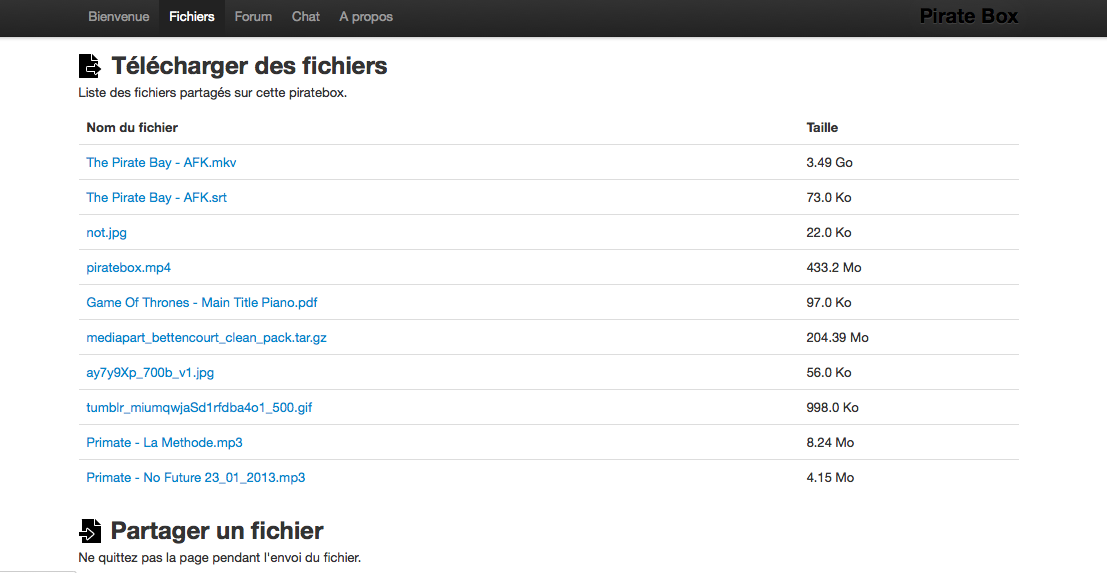
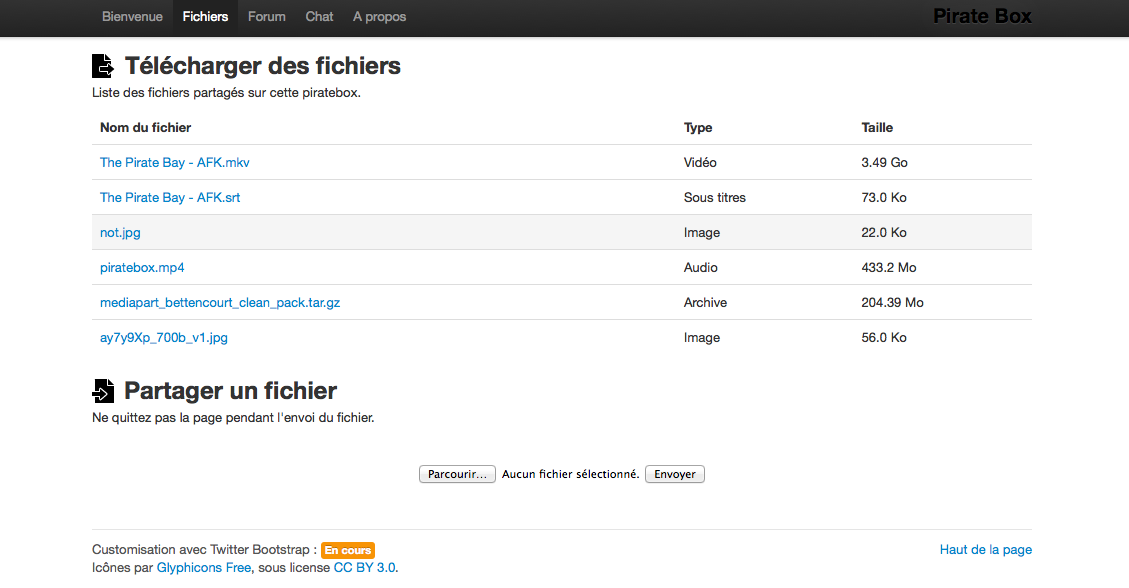
Small dir-generator enhancements

diff --git a/opt/piratebox/www/Shared/dir-generator.py b/opt/piratebox/www/Shared/dir-generator.py
@@ -5,7 +5,8 @@
 import os
 import os.path
 
-movie_types = [ 'mkv', 'mpg','mpeg','avi','asf','mp3','wav','mp4','wma','aif','aiff','ram', 'midi','mid','asf','au','flac' ]
+movie_types = [ 'mkv', 'mpg','mpeg','avi','wmv' ]
+sound_types = [ 'mp3','wav','mp4','wma','aif','aiff','ram', 'midi','mid','asf','au','flac' ]
 image_types = [ 'jpg','jpeg','gif','png','tif','tiff','bmp','ico' ]
 archive_types = [ 'zip','cab','7z','gz','tar.bz2','tar.gz','tar','rar', ]
 document_types = [ 'txt','text','doc','docx','abw','odt','pdf','rtf','tex','texinfo' ]
@@ -28,13 +29,16 @@ def get_template(name, file):
 def file_size(file):
     real_path = os.path.realpath(file)
     size = os.path.getsize(real_path)
+
     fileSize = str(size) + " o"
-    if (size > 1024):
-        fileSize = str(round(size / 1024, 2)) + " Ko"
-    if (size > 1024 * 1024.0):
-        fileSize = str(round(size / (1024.0 * 1024.0), 2)) + " Mo"
-    if (size > 1024 * 1024 * 1024):
+    if (size > 1024 * 1024 * 1024 * 1024):
+        fileSize = str(round(size / (1024.0 * 1024.0 * 1024.0 * 1024.0), 2)) + " To"
+    elif (size > 1024 * 1024 * 1024):
         fileSize = str(round(size / (1024.0 * 1024.0 * 1024.0), 2)) + " Go"
+    elif (size > 1024 * 1024.0):
+        fileSize = str(round(size / (1024.0 * 1024.0), 2)) + " Mo"
+    elif (size > 1024):
+        fileSize = str(round(size / 1024, 2)) + " Ko"
 
     return fileSize
 
@@ -44,6 +48,8 @@ def file_type(file):
     extension = os.path.splitext(file)[1][1:]
     if extension in movie_types:
         type = "Vid&eacute;o"
+    elif extension in sound_types:
+        type = "Audio"
     elif extension in image_types:
         type = "Image"
     elif extension in archive_types:
